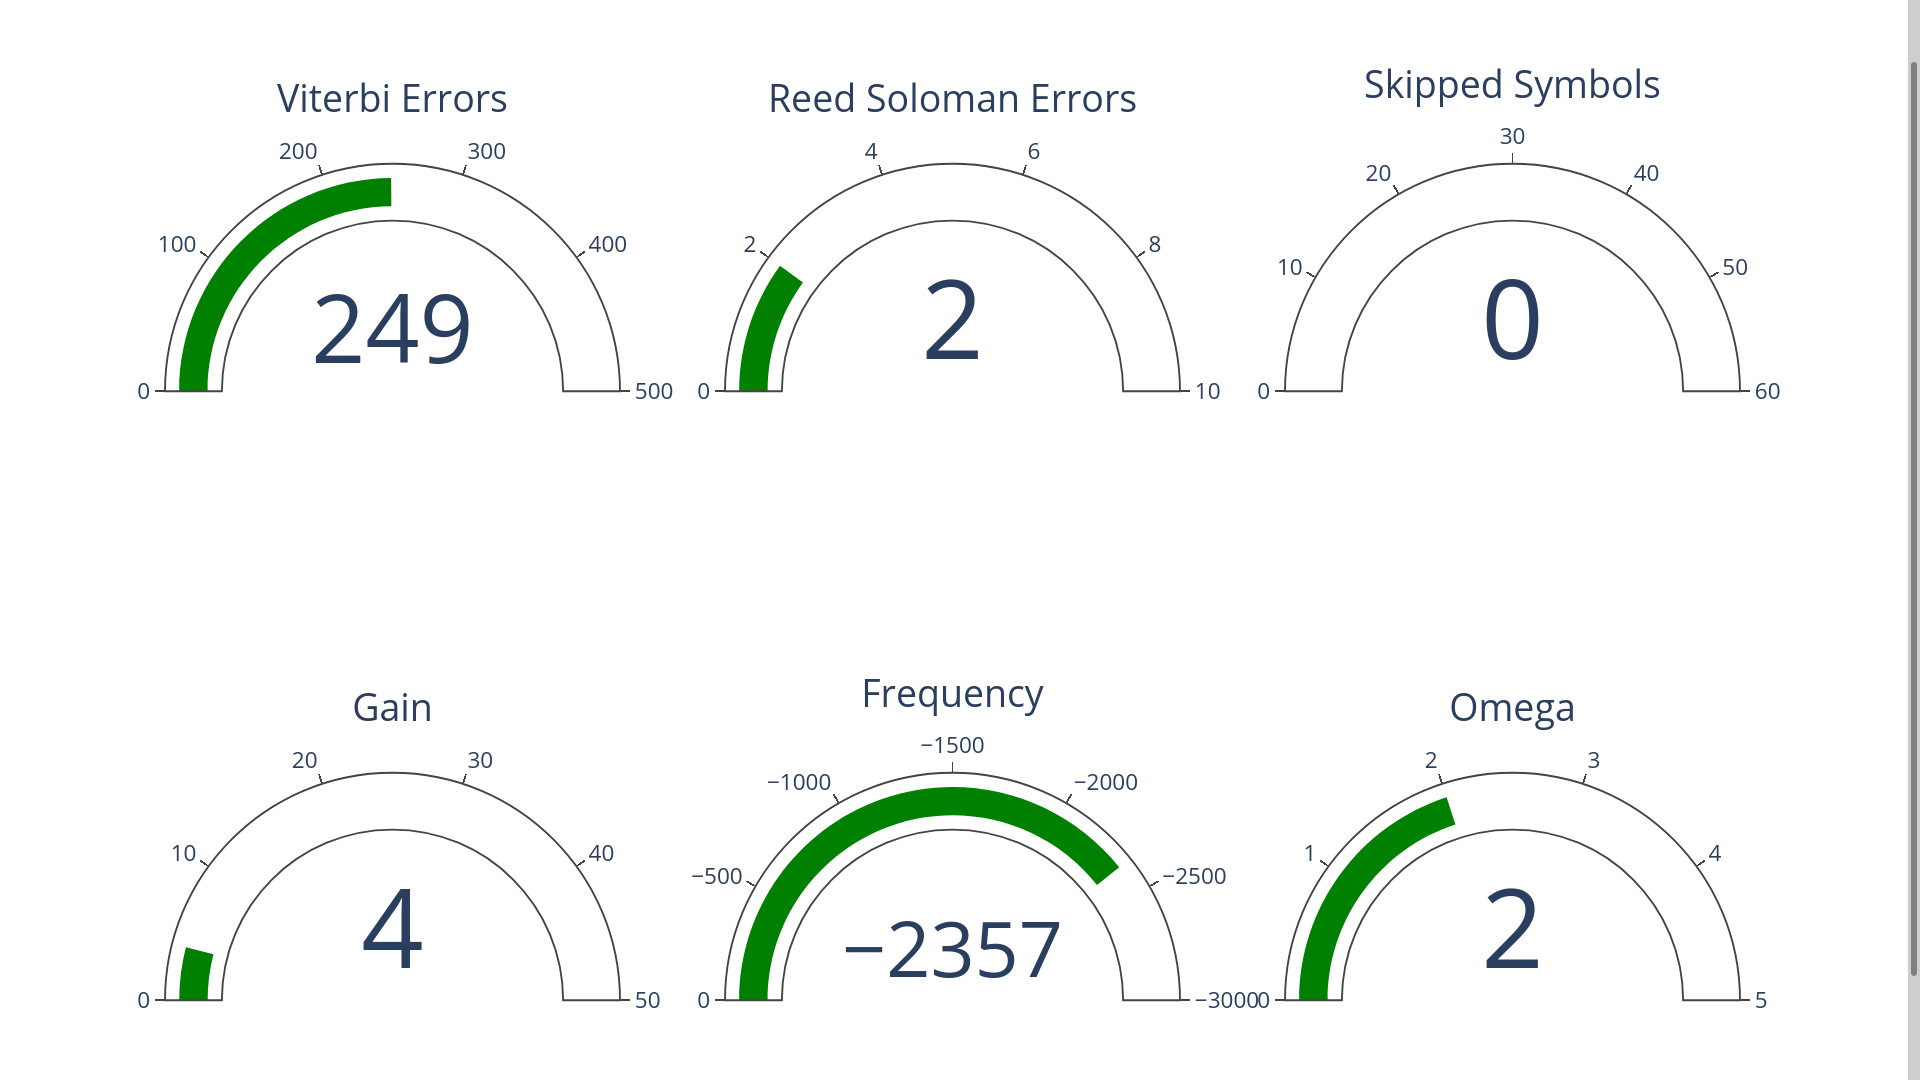
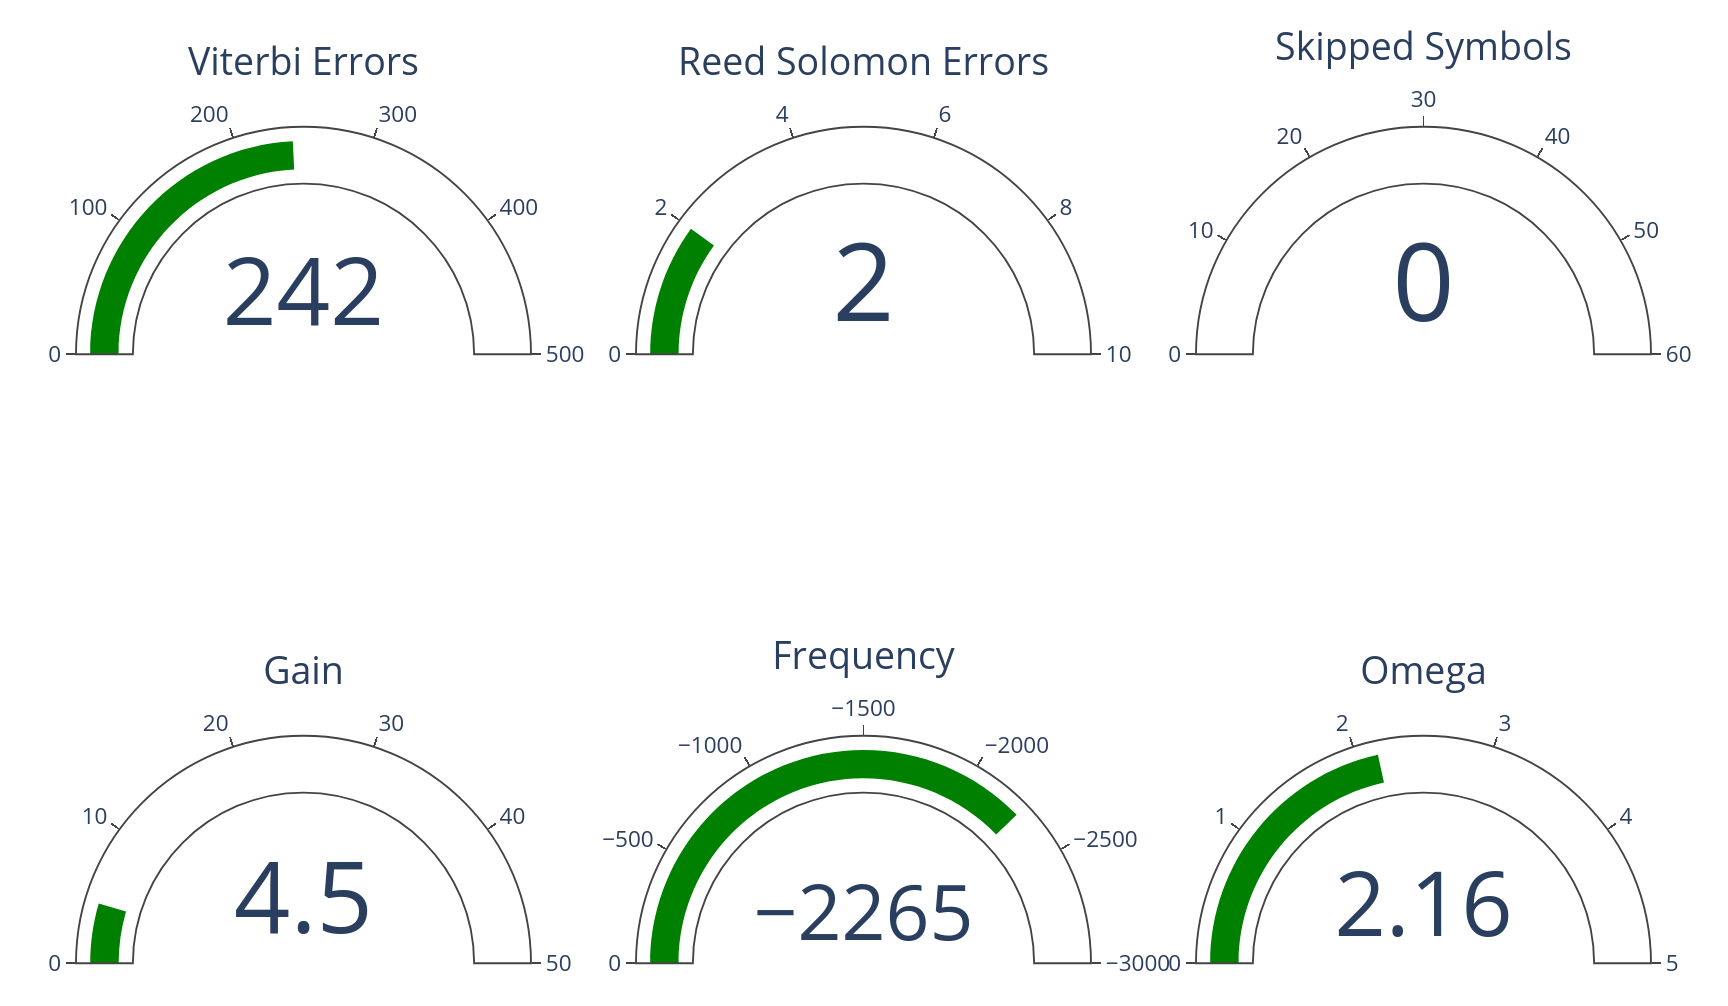
tuning the plot, mostly

diff --git a/plot.py b/plot.py
@@ -44,15 +44,16 @@ plt.setp(axes[0].get_xticklabels(), visible=False)
 plt.setp(axes[1].get_xticklabels(), visible=False)
 
 #plt.xticks(rotation=90)
-axes[0].set_ylabel('Counts per second')
+axes[0].set_ylabel('Counts per packet')
 #axes[0].set_ylim([100,300])
-axes[1].set_ylabel('Counts per second')
-axes[1].set_ylim([0,8])
+axes[1].set_ylabel('Counts per packet')
+axes[1].set_ylim([-0.1,8.1])
 axes[2].set_xlabel('Time (DD HH:MM)')
 axes[2].set_ylabel('Gain (V/V)\nBandwidth (Hz)')
 axes[2].set_ylim([0,8])
 axes[3].set_xlabel('Time (DD HH:MM)')
 axes[3].set_ylabel('Frequency (Hz)')
 
-plt.subplots_adjust(top=0.98, bottom=0.057, left=0.038, right=0.992, hspace=0.052, wspace=0.103)
+plt.subplots_adjust(top=0.985, bottom=0.057, left=0.038, right=0.983, hspace=0.051, wspace=0.126)
+fig.text(.5, .01, 'One Second Average Performance', ha='center', fontsize=14)
 plt.show()

diff --git a/README.md b/README.md
@@ -2,7 +2,8 @@
 
 # Realtime gauges...
 
-![Output of GoesToolsMon](./images/example.png)
+![Output of GoesToolsMon](./images/example2a.png)
+![Output of GoesToolsMon](./images/example2b.png)
 
 # and datalogging too...
 
